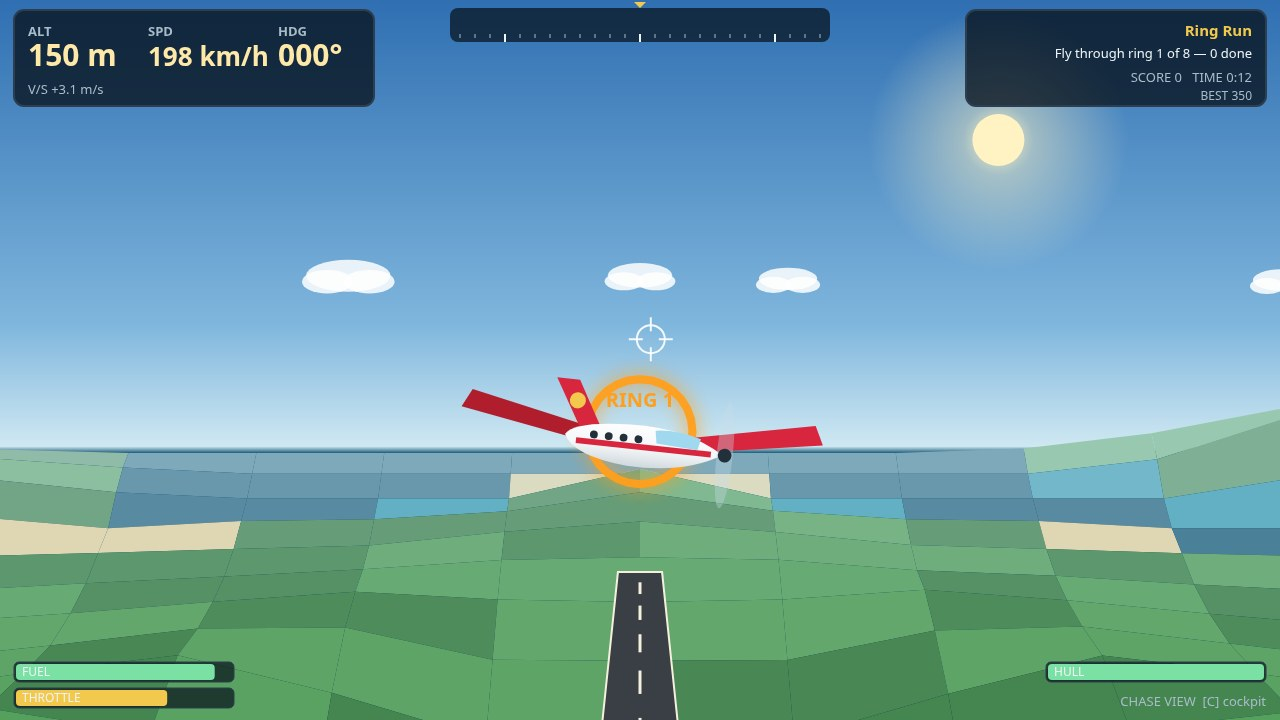
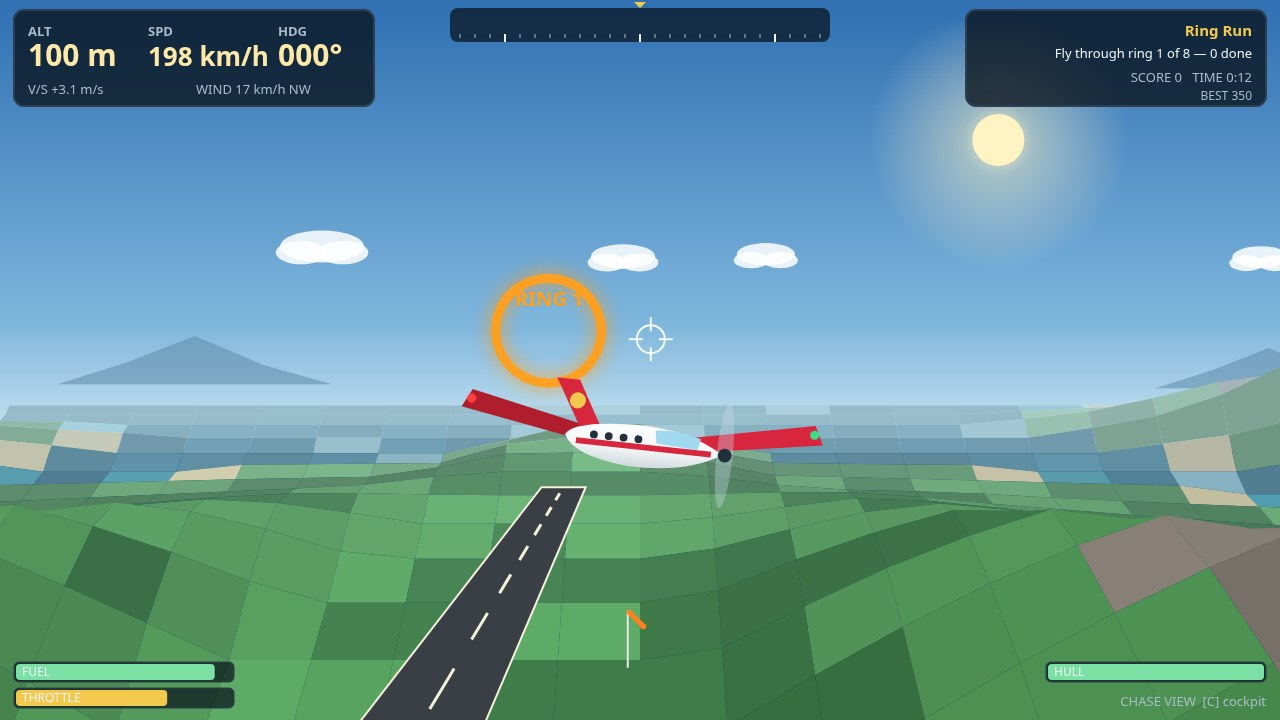
Round 3: wind, readable terrain, cockpit landing shot
- New weather.js: steady north-westerly wind with swell and island eddies;
  plane.js drifts sideways in moving air, so crosswind landings need a crab.
- render.js: finer terrain mesh near the plane, per-quad tone and slope
  shading, sun glints on the sea, hazy island silhouettes on the horizon,
  windsock beside the strip; sun kept below the HUD panels.
- hud.js: live wind readout (speed + compass point) in the instrument block.
- shots.js: ring 1 clears the tail on the cover, ring 3 dead ahead at
  level flight, landing shot now from the cockpit with lit gauges and the
  strip filling the windshield on short final.
- Screenshots retaken in Chrome (1280x720, real renders of the game).

diff --git a/game/src/render.js b/game/src/render.js
@@ -12,13 +12,26 @@ function hexToRgb(hex) {
   return [parseInt(hex.slice(1, 3), 16), parseInt(hex.slice(3, 5), 16), parseInt(hex.slice(5, 7), 16)];
 }
 
+function css(rgb) {
+  return `rgb(${rgb[0] | 0},${rgb[1] | 0},${rgb[2] | 0})`;
+}
+
 function mix(a, b, t) {
-  const ca = hexToRgb(a);
-  const cb = hexToRgb(b);
-  const r = Math.round(ca[0] + (cb[0] - ca[0]) * t);
-  const g = Math.round(ca[1] + (cb[1] - ca[1]) * t);
-  const bl = Math.round(ca[2] + (cb[2] - ca[2]) * t);
-  return `rgb(${r},${g},${bl})`;
+  const ca = typeof a === 'string' ? hexToRgb(a) : a;
+  const cb = typeof b === 'string' ? hexToRgb(b) : b;
+  return [
+    ca[0] + (cb[0] - ca[0]) * t,
+    ca[1] + (cb[1] - ca[1]) * t,
+    ca[2] + (cb[2] - ca[2]) * t,
+  ];
+}
+
+function scaleRgb(rgb, factor) {
+  return [
+    Math.max(0, Math.min(255, rgb[0] * factor)),
+    Math.max(0, Math.min(255, rgb[1] * factor)),
+    Math.max(0, Math.min(255, rgb[2] * factor)),
+  ];
 }
 
 function hash2(x, z) {
@@ -26,15 +39,35 @@ function hash2(x, z) {
   return s - Math.floor(s);
 }
 
-function groundColour(height, x, z, distance) {
+// Islands far beyond the flown mesh, drawn as hazy silhouettes on the
+// horizon so the sea never ends in a hard straight line: the archipelago
+// keeps going past the edge of the map.
+const FAR_ISLANDS = [
+  { x: -1900, z: -2900, peak: 210, width: 1200 },
+  { x: 2400, z: -2500, peak: 150, width: 850 },
+  { x: -2700, z: 1400, peak: 130, width: 950 },
+  { x: 3000, z: 1700, peak: 110, width: 800 },
+];
+
+function groundColour(height, x, z, distance, slope) {
   let base;
   if (height <= 0.5) base = PALETTE.seaDeep;
   else if (height <= 2.5) base = PALETTE.seaShallow;
   else if (height <= 5) base = PALETTE.sand;
   else if (height <= 70) base = hash2(Math.floor(x / 40), Math.floor(z / 40)) > 0.5 ? PALETTE.grass : PALETTE.grassDark;
   else base = PALETTE.rock;
-  const fog = Math.min(0.6, distance / 1500);
-  return mix(base, PALETTE.skyLow, fog);
+  // One quad, one tone: a hash of the quad's ground position varies the
+  // colour a little, so a hillside reads as ground and not as flat paint,
+  // and a slope catches less light than flat ground does.
+  const jitter = 0.9 + hash2(Math.floor(x / 40), Math.floor(z / 40)) * 0.2;
+  const slopeShade = Math.max(0.76, 1 - slope * 0.012);
+  let colour = scaleRgb(hexToRgb(base), jitter * slopeShade);
+  // Sun glints on the sea: a few quads catch the light and sparkle.
+  if (height <= 2.5 && hash2(Math.floor(x / 26), Math.floor(z / 26)) > 0.88) {
+    colour = mix(colour, '#bfe6f2', 0.45);
+  }
+  const fog = Math.min(0.72, distance / 1400);
+  return css(mix(colour, PALETTE.skyLow, fog));
 }
 
 export function createRenderer(canvas) {
@@ -93,9 +126,9 @@ export function createRenderer(canvas) {
     sky.addColorStop(1, '#083049');
     context.fillStyle = sky;
     context.fillRect(0, 0, FIELD.width, FIELD.height);
-    // Sun, fixed in the north-east sky.
+    // Sun, fixed in the north-east sky, kept below the top HUD panels.
     const sunX = FIELD.width * 0.78;
-    const sunY = Math.max(60, horizonY - 190);
+    const sunY = Math.max(130, horizonY - 190);
     const glow = context.createRadialGradient(sunX, sunY, 4, sunX, sunY, 130);
     glow.addColorStop(0, 'rgba(255, 243, 196, 0.95)');
     glow.addColorStop(0.25, 'rgba(255, 243, 196, 0.45)');
@@ -109,14 +142,37 @@ export function createRenderer(canvas) {
     return horizonY;
   }
 
+  function drawFarIslands(camera) {
+    for (const island of FAR_ISLANDS) {
+      const left = project(camera, { x: island.x - island.width / 2, y: 0, z: island.z });
+      const right = project(camera, { x: island.x + island.width / 2, y: 0, z: island.z });
+      const peak = project(camera, { x: island.x, y: island.peak, z: island.z });
+      const midLeft = project(camera, { x: island.x - island.width / 4, y: island.peak * 0.45, z: island.z });
+      const midRight = project(camera, { x: island.x + island.width / 4, y: island.peak * 0.4, z: island.z });
+      if (!left || !right || !peak || !midLeft || !midRight) continue;
+      context.fillStyle = 'rgba(93, 138, 168, 0.55)';
+      context.beginPath();
+      context.moveTo(left.x, left.y);
+      context.lineTo(midLeft.x, midLeft.y);
+      context.lineTo(peak.x, peak.y);
+      context.lineTo(midRight.x, midRight.y);
+      context.lineTo(right.x, right.y);
+      context.closePath();
+      context.fill();
+    }
+  }
+
   function drawTerrain(camera, plane) {
     const heading = plane.heading * DEG;
     const fx = Math.sin(heading);
     const fz = -Math.cos(heading);
     const rx = Math.cos(heading);
     const rz = Math.sin(heading);
-    const rows = [28, 48, 75, 108, 148, 195, 250, 315, 390, 480, 590, 720, 880, 1080];
-    const cols = [-1, -0.8, -0.6, -0.4, -0.2, 0, 0.2, 0.4, 0.6, 0.8, 1];
+    // A finer mesh than the eye needs up close, stretching far out: small
+    // quads near the aeroplane so hills read as hills, long ones at the
+    // horizon where the fog has already done the work.
+    const rows = [24, 40, 60, 84, 112, 144, 182, 226, 278, 340, 415, 505, 610, 735, 885, 1060, 1270, 1520];
+    const cols = [-1, -0.9, -0.8, -0.7, -0.6, -0.5, -0.4, -0.3, -0.2, -0.1, 0, 0.1, 0.2, 0.3, 0.4, 0.5, 0.6, 0.7, 0.8, 0.9, 1];
     const grid = [];
     for (let r = 0; r < rows.length; r += 1) {
       const row = [];
@@ -139,7 +195,9 @@ export function createRenderer(canvas) {
         const e = grid[r + 1][c];
         if (!a.point || !b.point || !d.point || !e.point) continue;
         const avgHeight = (a.height + b.height + d.height + e.height) / 4;
-        context.fillStyle = groundColour(avgHeight, a.x, a.z, a.dist);
+        const slope = Math.max(a.height, b.height, d.height, e.height)
+          - Math.min(a.height, b.height, d.height, e.height);
+        context.fillStyle = groundColour(avgHeight, a.x, a.z, a.dist, slope);
         context.beginPath();
         context.moveTo(a.point.x, a.point.y);
         context.lineTo(b.point.x, b.point.y);
@@ -151,7 +209,7 @@ export function createRenderer(canvas) {
     }
   }
 
-  function drawRunway(camera) {
+  function drawRunway(camera, wind) {
     const half = RUNWAY.length / 2;
     const wide = RUNWAY.width / 2;
     const y = RUNWAY.elevation + 0.6;
@@ -193,6 +251,32 @@ export function createRenderer(canvas) {
       context.moveTo(t1.x, t1.y);
       context.lineTo(t2.x, t2.y);
       context.stroke();
+    }
+    // Windsock beside the strip: the one thing on the airfield that shows
+    // the wind the pilot is about to land in, streaming downwind.
+    if (wind) {
+      const base = { x: RUNWAY.x + 42, y: RUNWAY.elevation, z: RUNWAY.z + 90 };
+      const foot = project(camera, base);
+      const top = project(camera, { x: base.x, y: base.y + 14, z: base.z });
+      const tip = project(camera, { x: base.x + wind.x * 1.6, y: base.y + 13, z: base.z + wind.z * 1.6 });
+      if (foot && top && tip) {
+        context.strokeStyle = '#e8e8e8';
+        context.lineWidth = 2;
+        context.beginPath();
+        context.moveTo(foot.x, foot.y);
+        context.lineTo(top.x, top.y);
+        context.stroke();
+        context.strokeStyle = '#ff7f1c';
+        context.lineWidth = 5;
+        context.beginPath();
+        context.moveTo(top.x, top.y);
+        context.lineTo(tip.x, tip.y);
+        context.stroke();
+        context.fillStyle = '#ff7f1c';
+        context.beginPath();
+        context.arc(tip.x, tip.y, 3, 0, Math.PI * 2);
+        context.fill();
+      }
     }
   }
 
@@ -411,9 +495,10 @@ export function createRenderer(canvas) {
     const plane = game.plane;
     const camera = cameraFor(plane);
     drawSky(plane);
+    drawFarIslands(camera);
     drawClouds(camera);
     drawTerrain(camera, plane);
-    drawRunway(camera);
+    drawRunway(camera, game.wind);
     if (game.mission && game.mission.rings) {
       const next = game.mission.nextRing();
       game.mission.rings.forEach((ring) => {

diff --git a/game/src/shots.js b/game/src/shots.js
@@ -4,6 +4,7 @@
 // fakes the view: the renderer paints exactly what a player would see there.
 import { SCREEN_PLAY, SCREEN_TITLE } from './hud.js';
 import { createMission } from './missions.js';
+import { stillWind } from './weather.js';
 
 function pose(plane, values) {
   Object.assign(plane.state, values);
@@ -11,6 +12,7 @@ function pose(plane, values) {
 
 export function stageShot(name, plane, game) {
   game.view = 'chase';
+  game.wind = stillWind();
   if (name === 'rings') {
     const mission = createMission('rings');
     game.mission = mission;
@@ -19,8 +21,10 @@ export function stageShot(name, plane, game) {
     mission.check(plane.state);
     pose(plane, { x: 430, y: 165, z: -330, heading: 90, speed: 58 });
     mission.check(plane.state);
+    // On final for ring 3, nearly level with it and 250 m out, so the ring
+    // sits dead ahead of the aeroplane instead of floating above it.
     pose(plane, {
-      x: 430, y: 165, z: -100, heading: 127, pitch: 0.02, bank: 0.25,
+      x: 560, y: 200, z: -180, heading: 160, pitch: 0, bank: 0.15,
       speed: 60, throttle: 0.75, fuel: 78, onGround: false, elapsed: 140,
     });
     plane.state.score = 200;
@@ -35,9 +39,15 @@ export function stageShot(name, plane, game) {
     // Mark the out-and-back leg flown, so the objective reads as final approach.
     pose(plane, { x: 0, y: 150, z: 100, heading: 180, speed: 55 });
     mission.check(plane.state);
+    // Final approach from the cockpit: the strip ahead through the
+    // windshield and the lit gauges below it — the landing flown, not watched.
+    // Short final, 90 m out and 40 m above the strip, so the runway fills
+    // the windshield above the dashboard; offset 25 m east of the centreline
+    // so the strip clears the centre pillar instead of hiding behind it.
+    game.view = 'cockpit';
     pose(plane, {
-      x: 0, y: 110, z: -650, heading: 180, pitch: -0.08, bank: 0,
-      speed: 48, throttle: 0.4, fuel: 61, verticalSpeed: -2.5,
+      x: 25, y: 70, z: -580, heading: 180, pitch: -0.06, bank: 0,
+      speed: 44, throttle: 0.35, fuel: 61, verticalSpeed: -2.2,
       onGround: false, elapsed: 210,
     });
     plane.state.score = 340;
@@ -48,10 +58,12 @@ export function stageShot(name, plane, game) {
   }
     // Cover and title share the hero pose: on climb-out past the home island,
     // runway ahead, first ring dead ahead, full HUD lit. The plane sits just
-    // south of the strip so the runway reads in the same frame as the ring.
+    // south of the strip so the runway reads in the same frame as the ring,
+    // offset 45 m east so the ring clears the tail fin instead of hiding
+    // behind it, and low enough that the ring sits on the horizon above it.
     game.mission = createMission('rings');
   pose(plane, {
-    x: 0, y: 150, z: -120, heading: 0, pitch: 0.08, bank: 0.12,
+    x: 45, y: 100, z: -120, heading: 0, pitch: 0.08, bank: 0.12,
     speed: 55, throttle: 0.7, fuel: 92, verticalSpeed: 3.1,
     onGround: false, elapsed: 12,
   });

diff --git a/game/src/plane.js b/game/src/plane.js
@@ -71,9 +71,12 @@ export function createPlane() {
   /**
    * One fixed step. `input` holds throttleDelta (-1..1), turn (-1..1, left to
    * right), pitchInput (-1..1, down to up) and flaps (true while held).
-   * `mission` is the active mission object, or null for free flight.
+   * `mission` is the active mission object, or null for free flight. `wind`
+   * is the wind at the aeroplane, or null for dead calm: moving air pushes
+   * the aeroplane sideways while it flies, so a crosswind on final has to
+   * be flown out or the sortie drifts off the strip.
    */
-  function step(input, mission) {
+  function step(input, mission, wind) {
     let events = 0;
     if (state.crashed || state.landed) return events;
     state.elapsed += STEP;
@@ -126,6 +129,13 @@ export function createPlane() {
     const forward = state.onGround ? Math.max(state.speed, 0) : state.speed;
     state.x += Math.sin(headingRad) * forward * STEP;
     state.z -= Math.cos(headingRad) * forward * STEP;
+
+    // Wind drift: the wheels hold the aeroplane on the ground, but in the
+    // air the breeze carries it sideways, a little every step.
+    if (!state.onGround && wind) {
+      state.x += wind.x * STEP;
+      state.z += wind.z * STEP;
+    }
 
     // Takeoff: enough speed and a pulled nose lifts off the strip. While the
     // wheels are down the aeroplane sits on the ground under it, runway or not.

diff --git a/game/src/weather.js b/game/src/weather.js
@@ -1,0 +1,35 @@
+// The wind: one slow breeze over the whole archipelago, so every sortie is
+// flown in moving air. It is a steady north-westerly with a slow swell and a
+// local eddy over each island, so the same place at the same time always has
+// the same wind, a screenshot scene is repeatable, and a landing is never
+// flown in dead calm: the pilot crabs into it on final, or drifts off the
+// strip. Pure maths, no state to save.
+
+const BASE_FROM = 335;
+const BASE_SPEED = 6.5;
+
+/** Wind at a place and time: speed in m/s, the direction it blows from, and its x/z push. */
+export function windAt(x, z, time) {
+  const swell = Math.sin(time * 0.05 + x * 0.001 + z * 0.0013) * 1.6;
+  const eddy = Math.sin(x * 0.004 - z * 0.003 + time * 0.11) * 0.9;
+  const speed = Math.max(2, BASE_SPEED + swell + eddy);
+  const from = BASE_FROM + Math.sin(time * 0.03 + z * 0.0009) * 14;
+  const to = (from + 180) * (Math.PI / 180);
+  return {
+    speed,
+    from,
+    x: Math.sin(to) * speed,
+    z: -Math.cos(to) * speed,
+    label: compassPoint(from),
+  };
+}
+
+function compassPoint(degrees) {
+  const points = ['N', 'NE', 'E', 'SE', 'S', 'SW', 'W', 'NW'];
+  return points[Math.round(((degrees % 360) + 360) % 360 / 45) % 8];
+}
+
+/** A fixed wind for a staged screenshot scene: the same breeze every time. */
+export function stillWind() {
+  return windAt(0, -350, 210);
+}

diff --git a/game/src/main.js b/game/src/main.js
@@ -11,6 +11,7 @@ import { ACTION_CAMERA, ACTION_CONFIRM, ACTION_MISSION_1, ACTION_MISSION_2, ACTI
 import { createRenderer } from './render.js';
 import { createHud, SCREEN_DONE, SCREEN_OVER, SCREEN_PAUSED, SCREEN_PLAY, SCREEN_TITLE } from './hud.js';
 import { createAudio } from './audio.js';
+import { windAt } from './weather.js';
 import { stageShot } from './shots.js';
 
 const MAX_FRAME = 0.25;
@@ -148,7 +149,9 @@ function runGame() {
   function step() {
     if (screen !== SCREEN_PLAY) return;
     const controls = input.controls();
-    const events = plane.step(controls, game.mission);
+    const wind = windAt(plane.state.x, plane.state.z, game.elapsed);
+    game.wind = wind;
+    const events = plane.step(controls, game.mission, wind);
     game.score = plane.state.score;
     game.elapsed = plane.state.elapsed;
     audio.update(plane.state.throttle, plane.state.speed, !plane.state.onGround || plane.state.speed > 5);

diff --git a/game/src/hud.js b/game/src/hud.js
@@ -144,6 +144,9 @@ export function createHud(canvas) {
     text('HDG', 278, 36, 13, PALETTE.muted, 'left', 'bold');
     text(`${String(Math.round(plane.heading)).padStart(3, '0')}°`, 278, 66, 30, PALETTE.gaugeLit, 'left', 'bold');
     text(`V/S ${plane.verticalSpeed >= 0 ? '+' : ''}${plane.verticalSpeed.toFixed(1)} m/s`, 28, 94, 13, PALETTE.muted);
+    if (state.wind) {
+      text(`WIND ${Math.round(state.wind.speed * 3.6)} km/h ${state.wind.label}`, 196, 94, 13, PALETTE.muted);
+    }
     compassStrip(plane.heading);
 
     // Top-right: mission, score, timer.

diff --git a/README.md b/README.md
@@ -4,7 +4,7 @@
 [![rank](https://make.fun/badge/best-flight-game-20261126-0057/maswens/nusantara-skies/rank.svg)](https://make.fun/bounty/best-flight-game-20261126-0057/leaderboard?utm_source=github&utm_medium=readme&utm_campaign=best-flight-game-20261126-0057)
 [![reward](https://make.fun/badge/best-flight-game-20261126-0057/maswens/nusantara-skies/reward.svg)](https://make.fun/bounty/best-flight-game-20261126-0057?utm_source=github&utm_medium=readme&utm_campaign=best-flight-game-20261126-0057)
 
-Nusantara Skies is a flight game over five Indonesian islands — Pulau Merak, Banda, Seroja, Karang, and Ombak — with three missions: Ring Run (8 rings), Island Hop (3 islands), and Precision Landing. Fly with fuel, stall, and damage to manage, over a procedural terrain heightfield with a runway on the north coast of Pulau Merak.
+Nusantara Skies is a flight game over five Indonesian islands — Pulau Merak, Banda, Seroja, Karang, and Ombak — with three missions: Ring Run (8 rings), Island Hop (3 islands), and Precision Landing. Fly with fuel, stall, and damage to manage, in a steady north-westerly wind that drifts the aeroplane sideways and has to be crabbed out on final, over a procedural terrain heightfield with a runway on the north coast of Pulau Merak. Chase and cockpit views, with lit instruments in both.
 
 ## Run it
 
